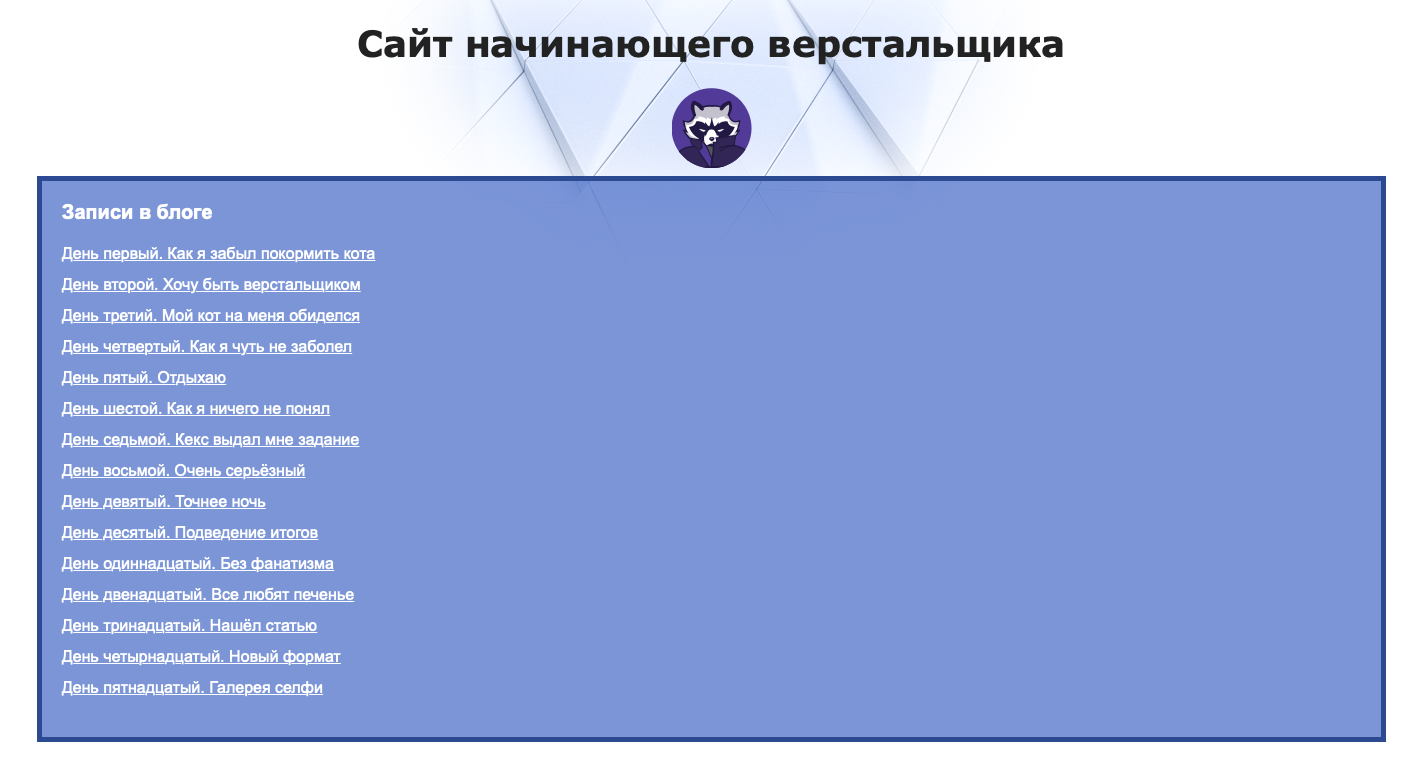
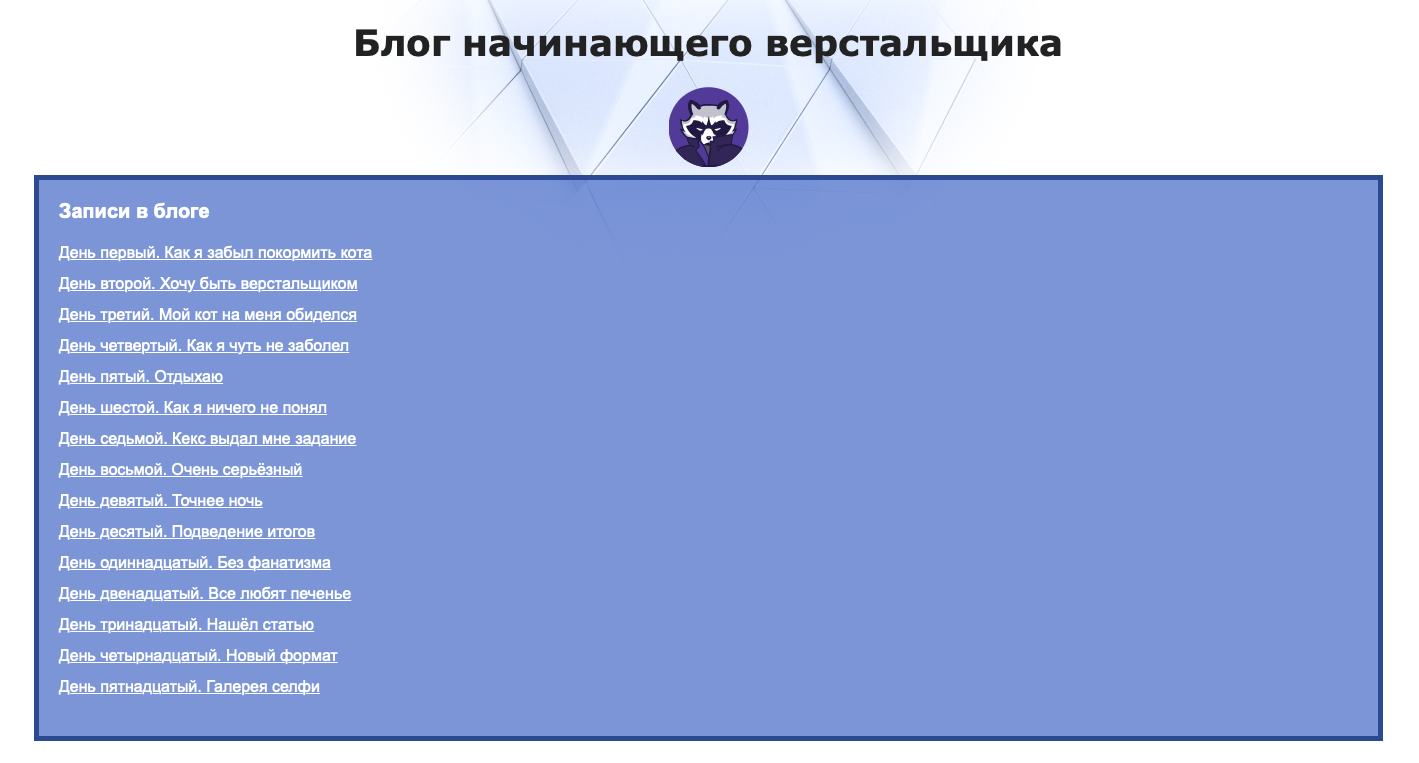
grand final edits on the site

diff --git a/index.html b/index.html
@@ -56,13 +56,13 @@
       <div class="container">
         <h2 class="subheading">Мои работы</h2>
         <figure class="project-image">
-          <img src="files/project.jpg" width="928" height="536" alt="Cайт инструктора Кекса">
+          <img src="files/project.png" width="928" alt="Cайт инструктора Кекса">
         </figure>
         <h3>Сайт инструктора Кекса</h3>
         <p>Небольшой лендинг о школе для начинающих.</p>
         <a class="button" href="source/project/index.html">Открыть страницу</a>
         <figure class="project-image">
-          <img src="files/project2.png" width="928" height="536" alt="Блог начинающего верстальщика">
+          <img src="files/project2.png" width="928" alt="Блог начинающего верстальщика">
         </figure>
         <h3>Блог начинающего верстальщика</h3>
         <p>Статический блог про обучение HTML и CSS.</p>

diff --git a/source/project6/index.html b/source/project6/index.html
@@ -2,12 +2,12 @@
 <html lang="ru">
   <head>
     <meta charset="utf-8">
-    <title>Сайт начинающего верстальщика</title>
+    <title>Блог начинающего верстальщика</title>
     <link rel="stylesheet" href="style.css">
   </head>
   <body>
     <header>
-      <h1 class="page-title">Сайт начинающего верстальщика</h1>
+      <h1 class="page-title">Блог начинающего верстальщика</h1>
     </header>
     <main>
       <div class="avatar-container">
